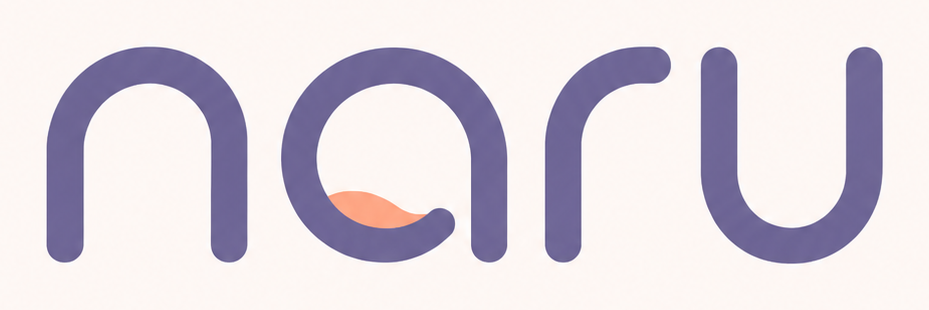
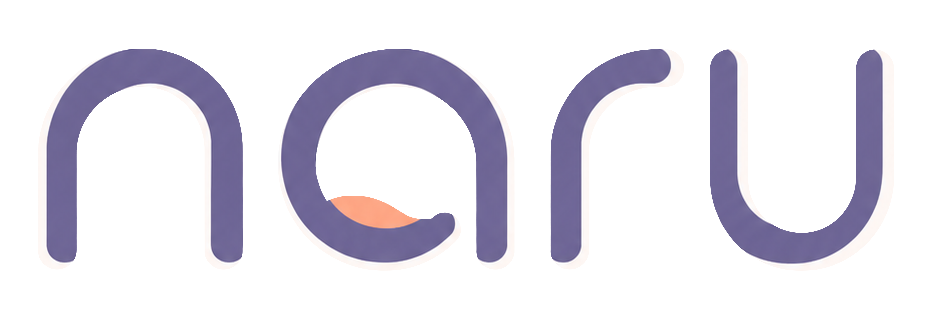
fix: 헤더 로고 배경색 불일치 수정
naru-wordmark.png가 알파 채널 없이 근사-흰색(#fdf8f5) 배경을 그대로
품고 있어서, 실제 페이지 배경(--cream #faf6ee)과 미묘하게 달라
로고 주위에 사각형 자국이 보였다. mix-blend-mode: multiply로 덮으려던
기존 처리도 완전히 지우지 못했다. naru-wordmark-dark.png의 알파 마스크를
가져와 진짜 투명 배경으로 다시 만들고, 더 이상 필요 없는 multiply를 제거.

diff --git a/styles.css b/styles.css
@@ -101,10 +101,6 @@ a {
   height: auto;
 }
 
-.wordmark-light {
-  mix-blend-mode: multiply;
-}
-
 .header-inner nav {
   margin-left: auto;
   display: flex;
